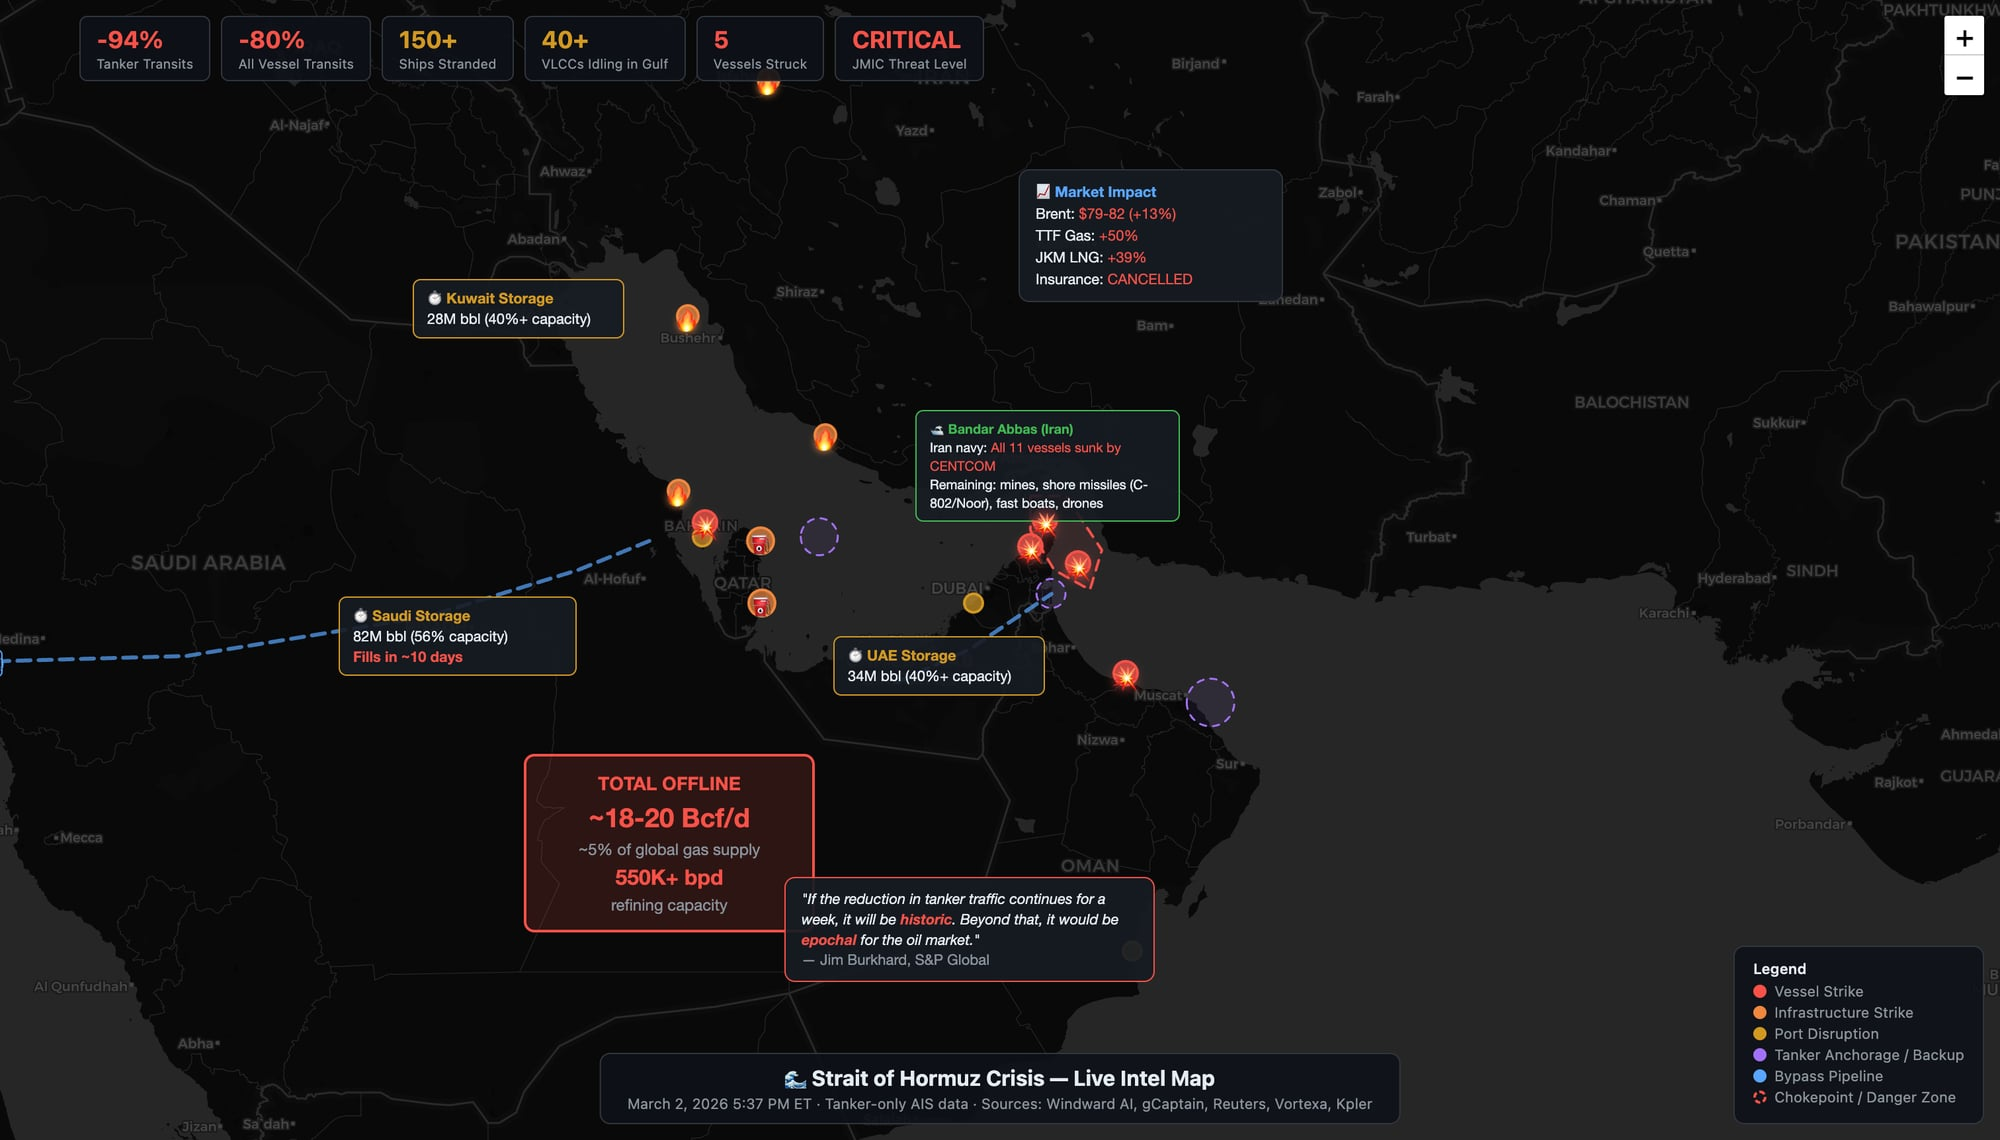
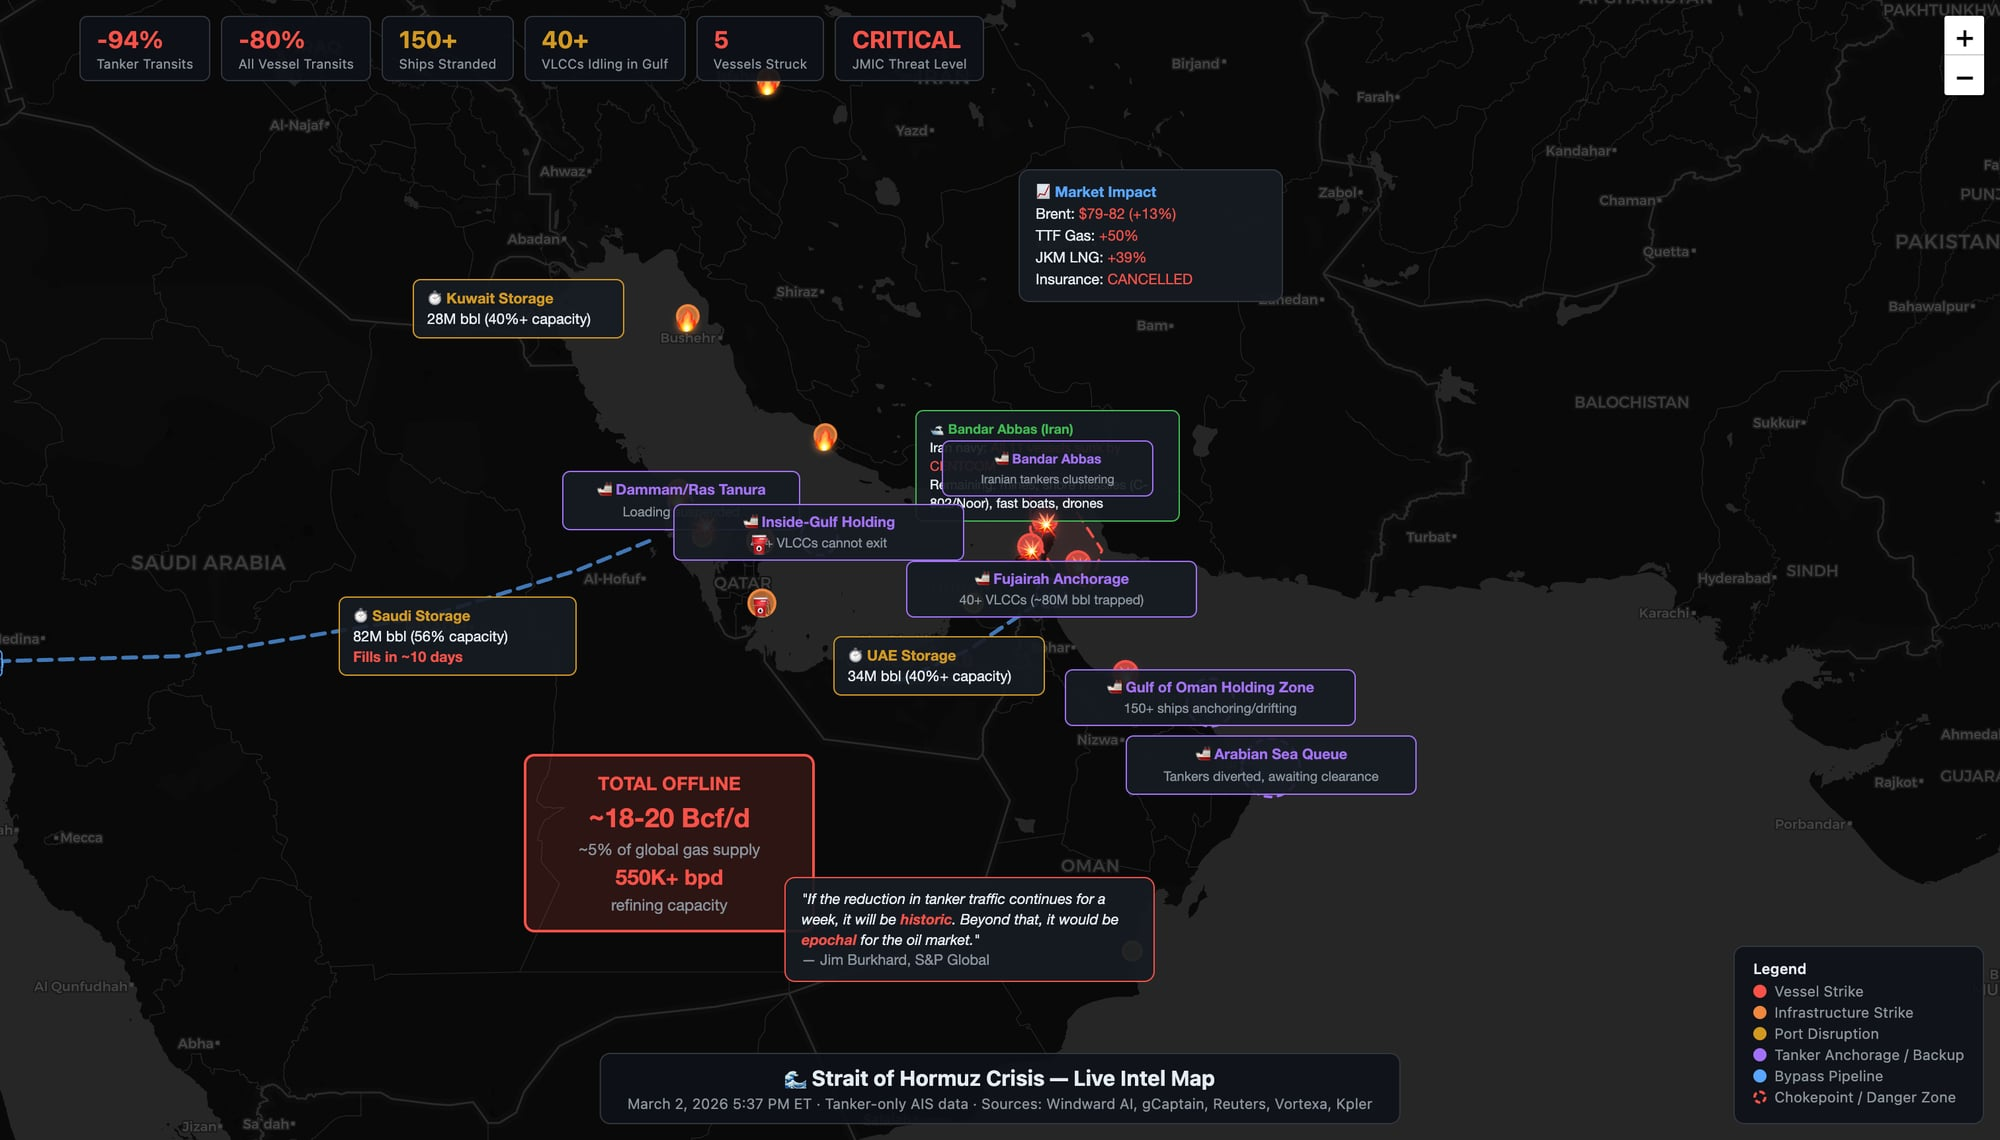
Add labeled holding zones + anchorages to intel map

Changed region(s): [[0.279, 0.3684, 0.589, 0.4912], [0.527, 0.5833, 0.713, 0.7061], [0.465, 0.4912, 0.589, 0.5526]]

diff --git a/map.html b/map.html
@@ -206,20 +206,79 @@ ports.forEach(p => {
 
 // === TANKER ANCHORAGE / BACKUP ZONES (purple) ===
 const anchorages = [
-  { name: 'Fujairah Anchorage', lat: 25.15, lon: 56.35, radius: 25,
+  { name: 'Fujairah Anchorage', lat: 25.15, lon: 56.35, radius: 25, ships: '40+ VLCCs (~80M bbl trapped)',
     detail: '<span class="red">Major tanker backup zone.</span><br>40+ VLCCs idling (~80M barrels trapped).<br>World\'s largest bunkering/STS zone — but current density far above normal.<br>Ships setting Fujairah as destination = parking, not transiting.' },
-  { name: 'Gulf of Oman Holding Zone', lat: 23.5, lon: 59.0, radius: 40,
+  { name: 'Gulf of Oman Holding Zone', lat: 23.5, lon: 59.0, radius: 40, ships: '150+ ships anchoring/drifting',
     detail: '150+ ships anchoring/drifting outside strait.<br>Waiting for security situation to clear.<br>"Wait-and-see" approach per Fearnley Securities.' },
-  { name: 'Inside-Gulf Holding', lat: 26.0, lon: 52.5, radius: 30,
+  { name: 'Inside-Gulf Holding', lat: 26.0, lon: 52.5, radius: 30, ships: '40+ VLCCs cannot exit',
     detail: '40+ VLCCs stuck inside Persian Gulf.<br>Cannot exit through Hormuz.<br><span class="red">JPMorgan: >25 days → storage fills → forced production shut-ins.</span>' },
 ];
 
 anchorages.forEach(a => {
   L.circle([a.lat, a.lon], {
-    radius: a.radius * 1000, color: '#a371f7', weight: 1.5, dashArray: '5,5',
-    fillColor: '#a371f7', fillOpacity: 0.08
+    radius: a.radius * 1000, color: '#a371f7', weight: 2, dashArray: '5,5',
+    fillColor: '#a371f7', fillOpacity: 0.12
   }).addTo(map).bindPopup(`<strong style="color:#a371f7;">🚢 ${a.name}</strong><br><br>${a.detail}`);
+  // Floating label
+  L.marker([a.lat, a.lon], {
+    icon: L.divIcon({
+      className: '',
+      html: `<div style="background:rgba(22,27,34,0.92);border:1px solid #a371f7;border-radius:6px;padding:5px 10px;font-size:11px;color:#e6edf3;max-width:220px;line-height:1.4;text-align:center;">
+        <strong style="color:#a371f7;">🚢 ${a.name}</strong><br>
+        <span style="font-size:10px;color:#8b949e;">${a.ships}</span>
+      </div>`,
+      iconSize: [220, 50], iconAnchor: [110, 25]
+    })
+  }).addTo(map);
 });
+
+// Dammam/Ras Tanura holding
+L.circle([26.5, 50.2], {
+  radius: 20000, color: '#a371f7', weight: 2, dashArray: '5,5',
+  fillColor: '#a371f7', fillOpacity: 0.12
+}).addTo(map).bindPopup(`<strong style="color:#a371f7;">🚢 Dammam / Ras Tanura Anchorage</strong><br><br>Tankers waiting near shut Ras Tanura refinery.<br>550K bpd offline — loading suspended.`);
+L.marker([26.5, 50.2], {
+  icon: L.divIcon({
+    className: '',
+    html: `<div style="background:rgba(22,27,34,0.92);border:1px solid #a371f7;border-radius:6px;padding:5px 10px;font-size:11px;color:#e6edf3;text-align:center;">
+      <strong style="color:#a371f7;">🚢 Dammam/Ras Tanura</strong><br>
+      <span style="font-size:10px;color:#8b949e;">Loading suspended</span>
+    </div>`,
+    iconSize: [180, 50], iconAnchor: [90, 25]
+  })
+}).addTo(map);
+
+// Bandar Abbas holding
+L.circle([26.8, 56.3], {
+  radius: 18000, color: '#a371f7', weight: 2, dashArray: '5,5',
+  fillColor: '#a371f7', fillOpacity: 0.12
+}).addTo(map).bindPopup(`<strong style="color:#a371f7;">🚢 Bandar Abbas Anchorage</strong><br><br>Iranian-flagged + sanctioned tankers clustering.<br>Iran's primary naval/commercial port.`);
+L.marker([27.0, 56.3], {
+  icon: L.divIcon({
+    className: '',
+    html: `<div style="background:rgba(22,27,34,0.92);border:1px solid #a371f7;border-radius:6px;padding:5px 10px;font-size:10px;color:#e6edf3;text-align:center;">
+      <strong style="color:#a371f7;">🚢 Bandar Abbas</strong><br>
+      <span style="font-size:9px;color:#8b949e;">Iranian tankers clustering</span>
+    </div>`,
+    iconSize: [160, 45], iconAnchor: [80, 22]
+  })
+}).addTo(map);
+
+// Muscat/SE Oman queue
+L.circle([22.5, 60.0], {
+  radius: 50000, color: '#a371f7', weight: 2, dashArray: '5,5',
+  fillColor: '#a371f7', fillOpacity: 0.10
+}).addTo(map).bindPopup(`<strong style="color:#a371f7;">🚢 SE Oman / Arabian Sea Queue</strong><br><br>Large concentration of tankers diverted away from strait.<br>Waiting for insurance/security clearance.`);
+L.marker([22.5, 60.0], {
+  icon: L.divIcon({
+    className: '',
+    html: `<div style="background:rgba(22,27,34,0.92);border:1px solid #a371f7;border-radius:6px;padding:5px 10px;font-size:11px;color:#e6edf3;text-align:center;">
+      <strong style="color:#a371f7;">🚢 Arabian Sea Queue</strong><br>
+      <span style="font-size:10px;color:#8b949e;">Tankers diverted, awaiting clearance</span>
+    </div>`,
+    iconSize: [220, 50], iconAnchor: [110, 25]
+  })
+}).addTo(map);
 
 // === BYPASS PIPELINES (blue) ===
 // East-West Pipeline (Saudi: Abqaiq → Yanbu)
